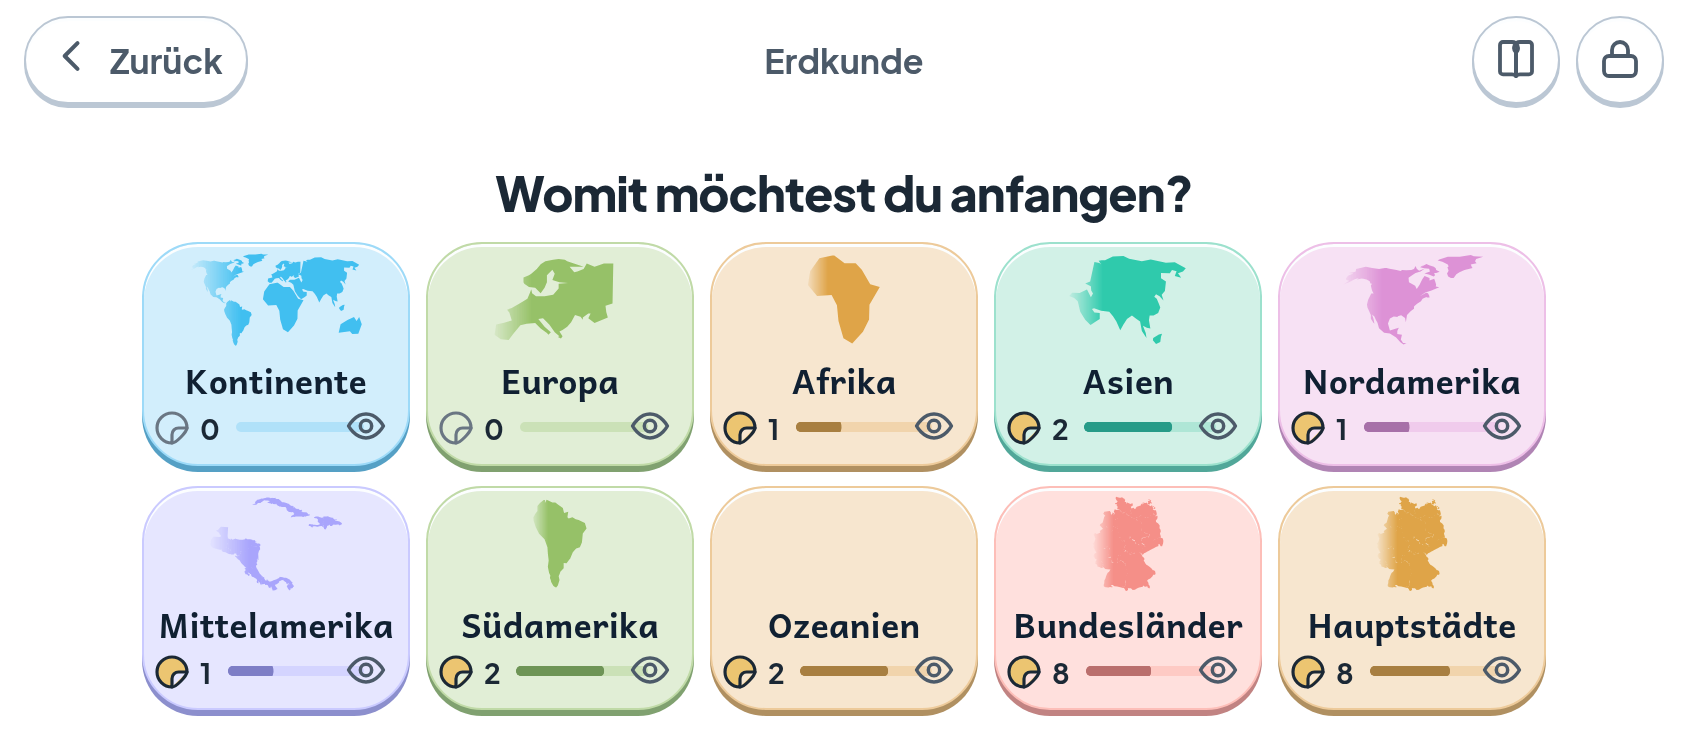
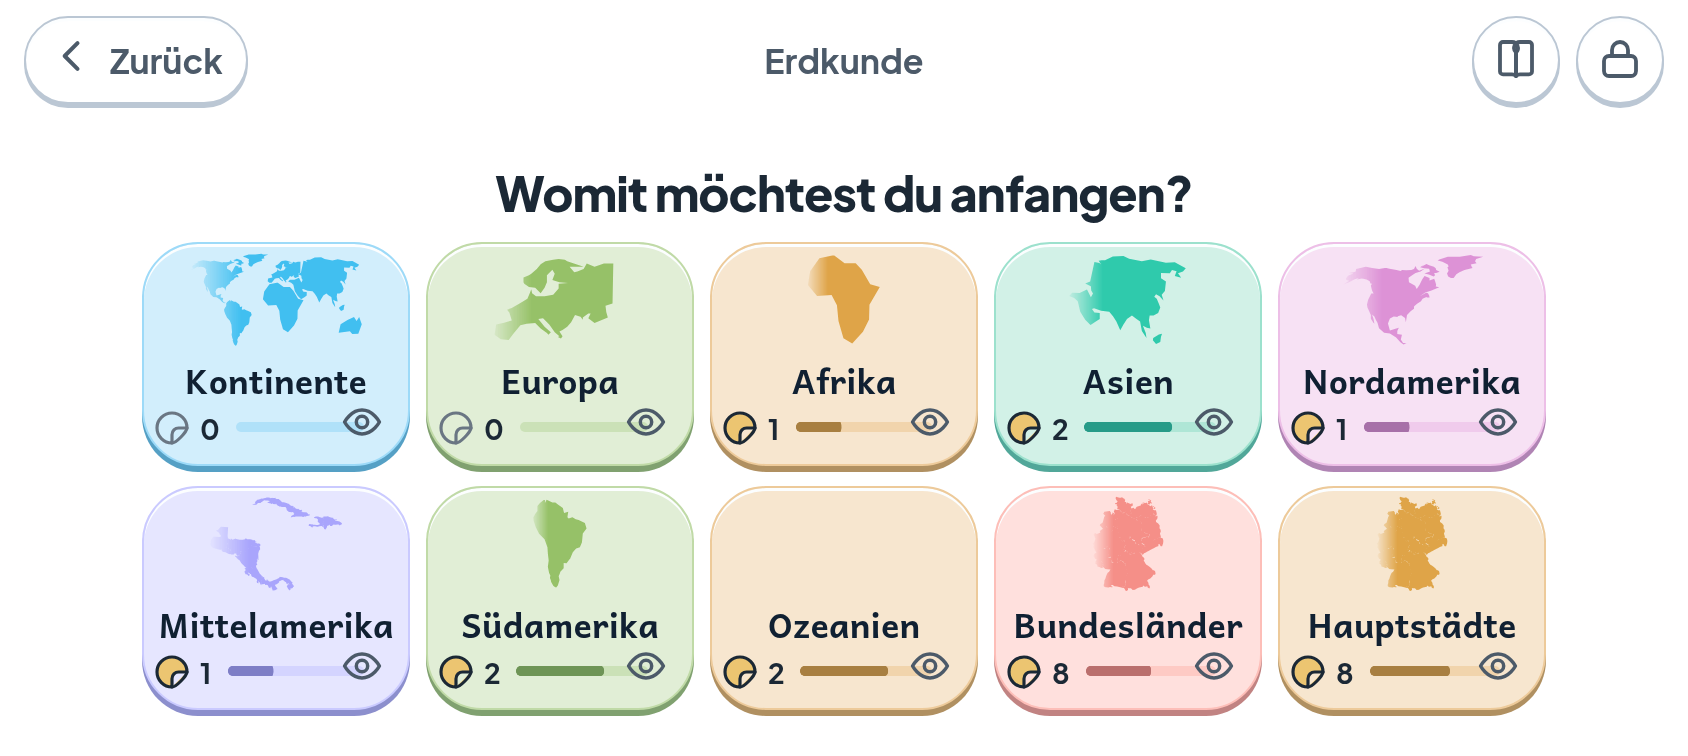
Q16: zwei Finger sind jetzt bezeugt — und das Auge liegt auf dem Namen
Mit den Fingern zoomen geht seit M4z: zwei Finger auseinander ziehen die
Karte auf, ihre Mitte ist der Festpunkt. Nur hatte das nie ein Tor
angefasst. Die drei Lupenknöpfe waren dreifach bezeugt (Größe, Wirkung,
Rückweg), die Geste gar nicht — und sie ist die einzige Bedienung der App,
die zwei Finger braucht. Es hätte gereicht, dass jemand `touch-action` von
`none` auf `manipulation` setzt, und das Telefon nähme die Geste für sich,
ohne dass ein einziger Bildpunkt anders aussieht.

`ziehen --nur=lupe` zieht jetzt wirklich auf: 40 → 230 Punkte
Fingerabstand ergeben Maßstab 5,8×, das gesuchte Land wächst von 29,7 auf
170,8 pt, und „ganze Karte" muss danach dastehen. Gefahren über
`Input.dispatchTouchEvent` im Steuerprotokoll, nicht mit selbstgebauten
PointerEvents: die App fängt den Zeiger mit `setPointerCapture`, und das
wirft bei einer erfundenen Zeigernummer — ein nachgemachtes Ereignis hätte
eine Geste geprüft, die es im Spiel nicht gibt. Mit Gegenprobe (228).

Was das Tor nicht kann, und das steht daneben: `touch-action`.
Nachgestellt zog die Karte hier weiter auf — Chromium liefert in der
Berührungsemulation die Zeigerereignisse trotzdem aus. Auf einem echten
iPhone nimmt Safari die Geste an dieser Stelle für sich. Bezeugt ist, dass
die GESTE angeschlossen ist; dass das Telefon sie durchlässt, sagt nur das
Gerät (Regel 5).

Zu den Kacheln: der Versuch, dem Auge dieselbe Fläche und Kante zu geben
[…]

diff --git a/prototyp/vorlage.html b/prototyp/vorlage.html
@@ -615,7 +615,16 @@ body{background:linear-gradient(168deg,var(--grund) 0%,var(--grund-2) 100%);
 .wahl.ebenen .kachel .name{font-size:var(--s0);text-align:center;width:100%}
 /* Platz fuer das Auge unten rechts - eine Trefferflaeche breit. */
 .wahl.ebenen .kachelfuss{padding-right:var(--r8)}
-.wahl.ebenen .kachelpaar .schau{top:auto;bottom:0;right:0;
+/* Das Auge bleibt nackt - als einzige Bedienstelle der App, und mit
+   Grund (Q16 nachgemessen).
+   Seit Q15 hat jeder Knopf Flaeche und Kante. Dem Auge dieselbe zu geben
+   war ein Versuch und ein Fehlschlag: auf dem Zielgeraet ist die Kachel
+   112 Punkte hoch, der Knopf 44 - eine gefuellte Scheibe dort ist ein
+   Viertel der Kachel, sie legt sich ueber den Namen und ragt ueber die
+   Kante hinaus. Angesehen und verworfen. Was bleibt, ist ein Zeichen auf
+   der Kachel; dass es zu druecken ist, traegt seine Trefferflaeche, nicht
+   sein Aussehen. */
+.wahl.ebenen .kachelpaar .schau{top:auto;bottom:var(--r0);right:var(--r0);
   background:transparent;border-color:transparent;box-shadow:none}
 .kachel.welt .silhouette{height:80%;max-width:76%}
 .kachel .silhouette path{fill:currentColor}

diff --git a/docs/Lernkiste-STAND.md b/docs/Lernkiste-STAND.md
@@ -8230,3 +8230,51 @@ eine Kante hat. Das ist die Zusage aus dem Kommentar, endlich als Prüfung —
 mit stehender Gegenprobe („der leise Knopf verliert seine Kante").
 
 227 Gegenproben. 36 Vorbilder neu abgenommen.
+
+
+---
+
+## Q16 — zwei Finger, und ein Auge auf dem Namen
+
+### „Kann man auch mit den Fingern zoomen?"
+
+Ja — und zwar seit M4z. Zwei Finger auseinander ziehen die Karte auf, ihre
+Mitte ist der Festpunkt; dazu drei Knöpfe (`+`, `−`, „ganze Karte").
+
+Nur hatte das **nie ein Tor angefasst**. Die Knöpfe waren dreifach bezeugt
+(Größe, Wirkung, Rückweg), die Geste gar nicht — und sie ist die einzige
+Bedienung der App, die zwei Finger braucht. Es hätte gereicht, dass jemand
+`touch-action` von `none` auf `manipulation` setzt, und das Telefon nähme die
+Geste für sich, ohne dass ein einziger Bildpunkt anders aussieht.
+
+`ziehen --nur=lupe` zieht jetzt wirklich auf: **40 → 230 Punkte Fingerabstand
+ergibt Maßstab 5,8×** (das gesuchte Land wächst von 29,7 auf 170,8 pt), und der
+Knopf „ganze Karte" muss danach dastehen. Gefahren wird über
+`Input.dispatchTouchEvent` im Steuerprotokoll des Browsers, nicht mit
+selbstgebauten `PointerEvent`s: die App fängt den Zeiger mit
+`setPointerCapture`, und das wirft bei einer erfundenen Zeigernummer — ein
+nachgemachtes Ereignis hätte eine Geste geprüft, die es im Spiel nicht gibt.
+
+**Was das Tor NICHT kann**, und das steht daneben: `touch-action`.
+Nachgestellt zog die Karte hier weiter auf — Chromium liefert in der
+Berührungsemulation die Zeigerereignisse trotzdem aus. Auf einem echten iPhone
+nimmt Safari die Geste an dieser Stelle für sich. Geprüft ist also, dass die
+**Geste angeschlossen** ist; dass das Telefon sie durchlässt, sagt nur das Gerät.
+
+### Die Kacheln — gemessen statt geraten
+
+Der Versuch, dem Auge dieselbe Fläche und Kante zu geben wie jedem anderen
+Knopf (Q15), ist gebaut, angesehen und weggeworfen worden: auf einer 112 Punkte
+hohen Kachel ist eine gefüllte Scheibe von 44 Punkten ein Viertel der Fläche.
+
+Beim Nachmessen kam dafür etwas heraus, das kein Geschmacksurteil ist: **die
+Trefferfläche des Auges liegt auf dem Namen.** „Kontinente" um 22 × 13 px,
+„Europa" um 6 × 13. Ein Kind, das auf das Ende des Wortes tippt, öffnet die
+Vorschau statt die Ebene. Auf dem iPad passiert das nicht — dort ist die Kachel
+240 statt 134 Punkte breit.
+
+Das ist dieselbe Enge wie in Q13, und es gehört in dieselbe Entscheidung. Die
+drei Wege stehen mit Zahlen im Backlog. Sofort gemacht ist nur, was eindeutig
+war: das Auge hing 2 bis 4 Punkte über die untere Kachelkante hinaus.
+
+228 Gegenproben.

diff --git a/docs/Lernkiste-BACKLOG.md b/docs/Lernkiste-BACKLOG.md
@@ -2284,3 +2284,46 @@ Drei Wege, und alle drei kosten etwas:
 Was `passt` noch nicht kann: es fährt die Ebenenwahl nur mit dem Standardprofil.
 Wer das repariert, trägt Leas Ebenenwahl in die Bildschirmliste nach — sonst
 bleibt derselbe Befund beim nächsten Mal wieder ungesehen.
+
+
+---
+
+## Q16 offen: das Auge liegt auf dem Namen — auf dem Zielgerät
+
+Gemessen auf 844 × 390 mit Leiste, Leas Ebenenwahl:
+
+| | Kachel | Trefferfläche des Auges liegt über dem Namen |
+|---|---|---|
+| Kontinente | 134 × 112 | **22 × 13 px** |
+| Europa | 134 × 112 | 6 × 13 px |
+| Afrika | 134 × 112 | 3 × 13 px |
+| iPad quer | 240 × 112 | — |
+
+Ein Kind, das auf das Ende von „Kontinente" tippt, öffnet die **Vorschau**
+statt die Ebene. Auf dem iPad passiert das nicht: dort ist die Kachel 240 statt
+134 Punkte breit.
+
+Rechnen lässt es sich nicht wegdiskutieren: die Kachel ist 134 × 112, das Auge
+muss 44 × 44 messen (Fingergrenze), und der Name steht zentriert über die volle
+Breite. Ein zweiter Knopf in einer Kachel dieser Größe hat keinen Platz, der
+nicht schon vergeben ist.
+
+Drei Wege — und alle drei hängen an der Wandentscheidung aus Q13:
+
+1. **Breitere Kacheln.** Löst beides auf einmal (Leas elfte Kachel und das
+   Auge), kostet aber die Reihe: bei 134 passen fünf nebeneinander.
+2. **Kein Auge auf dem Telefon.** Die Vorschau erscheint beim ersten Betreten
+   einer Ebene ohnehin von selbst; das Auge ist der Weg, sie noch einmal zu
+   sehen. Auf dem Gerät, auf dem sie nicht hinpasst, könnte sie entfallen —
+   dann ist die Kachel ein einziges, sauberes Ziel.
+3. **Name links, Auge rechts** statt beide zentriert. Dann bricht
+   „Mittelamerika" bei 90 Punkten Textbreite um.
+
+**Was in Q16 schon gemacht ist:** das Auge hing 2 bis 4 Punkte über die untere
+Kachelkante hinaus und sitzt jetzt drin.
+
+**Verworfen in Q16:** dem Auge dieselbe Fläche und Kante zu geben wie jedem
+anderen Knopf (Q15). Gebaut, angesehen, weggeworfen — auf einer 112 Punkte
+hohen Kachel ist eine gefüllte Scheibe von 44 Punkten ein Viertel der Fläche,
+sie legt sich über den Namen und ragt über die Kante. Der Grund steht jetzt im
+Stylesheet, damit es niemand ein zweites Mal versucht.
